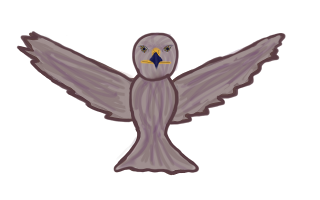
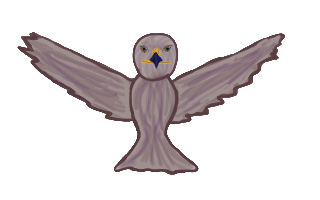
updated hawk asset, removed unneeded asset, check happy cloud collision

diff --git a/core/src/com/quokkabounce/game/states/IntroState.java b/core/src/com/quokkabounce/game/states/IntroState.java
@@ -41,7 +41,7 @@ public class IntroState extends State implements InputProcessor{
         S = new Texture("letters/S.png");
         T = new Texture("letters/T.png");
         U = new Texture("letters/U.png");
-        hawk = new Texture("hawkIdle/hawk5.png");
+        hawk = new Texture("hawk.png");
         quokkbig = new Texture("quokkbig.png");
         evilCloud = new Texture("evilCloud.png");
         quokkaPrisoner = new Texture("quokkaPrisoner.png");
